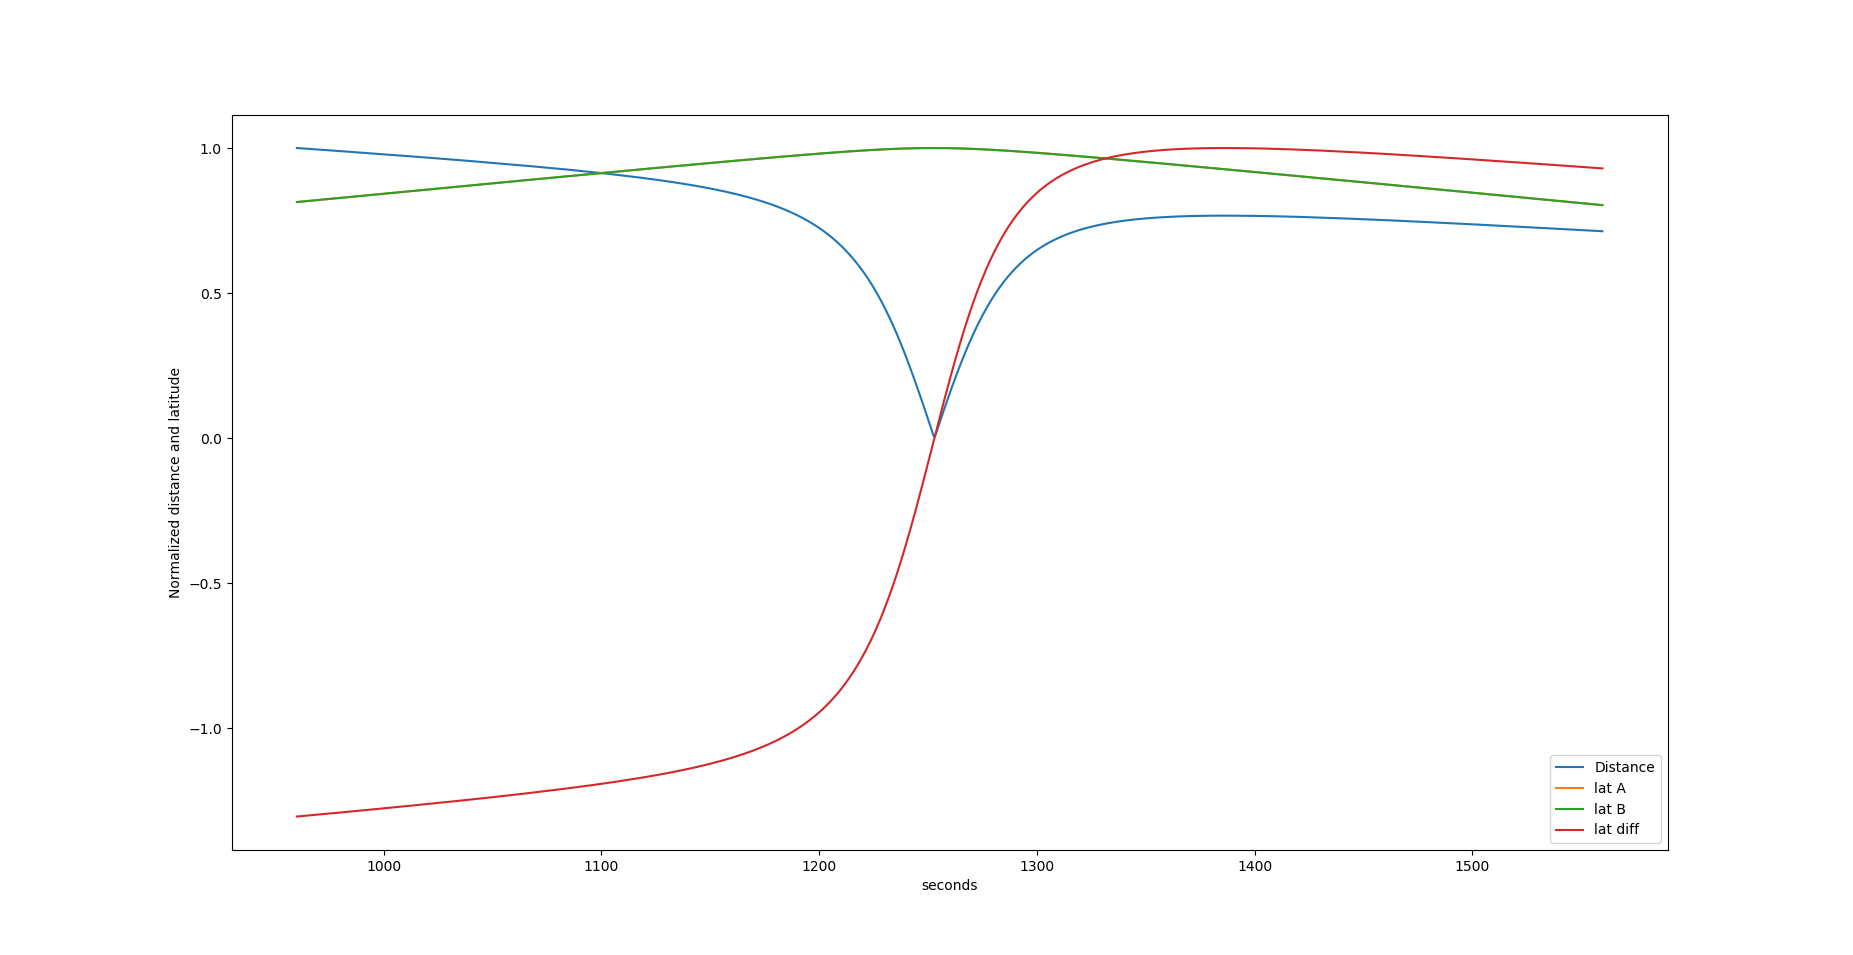
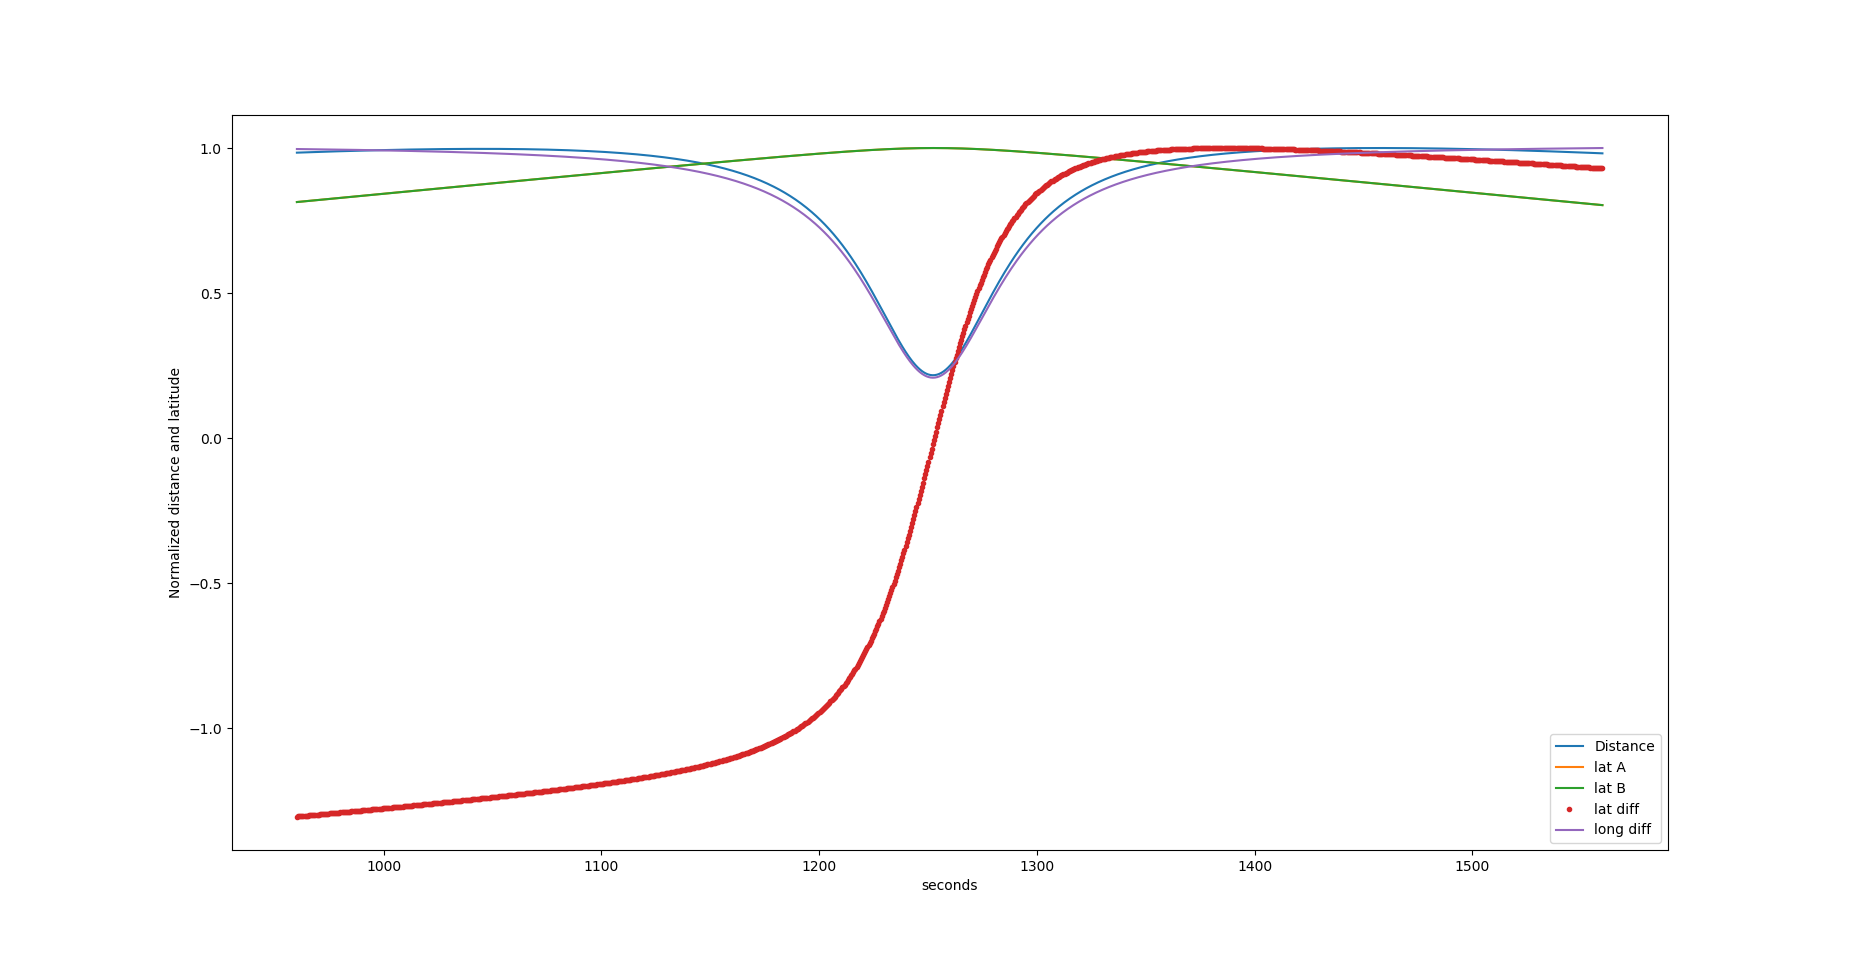
added longitude to example figure

diff --git a/SWARM/SWARMreader.py b/SWARM/SWARMreader.py
@@ -162,11 +162,13 @@ def idek():
     latA = cdfA["Latitude"][start+shift:stop+shift]
     latB = cdfB["Latitude"][start:stop]
     radA = cdfA["Radius"][start:stop]
+    longA = cdfA["Longitude"][start+shift:stop+shift]
+    longB = cdfB["Longitude"][start:stop]
     classy = SWARMprocess()
     seconds = classy.stamp_to_sec(cdfA["Timestamp"][start:stop])
 
     lat_diff = latB - latA
-    dist = classy.distance(latA, 0, radA, latB, 0, radA)
+    dist = classy.distance(latA, longA, radA, latB, longB, radA)
 
     latA1 = latA[:-1]
     latA2 = latA[1:]
@@ -183,6 +185,7 @@ def idek():
     secondish = seconds[:-1]
 
     deri_diff = deri_latB - deri_latA
+    longdiff = longB - longA
 
     plt.plot(secondish, deri_latA)
     plt.plot(secondish, deri_latB)
@@ -195,8 +198,10 @@ def idek():
     plt.plot(seconds, dist/np.max(dist))
     plt.plot(seconds, latA/np.max(latA))
     plt.plot(seconds, latB/np.max(latB))
-    plt.plot(seconds, lat_diff/np.max(lat_diff))
+    plt.plot(seconds, lat_diff/np.max(lat_diff), ".")
+    plt.plot(seconds, longdiff/np.max(longdiff))
     plt.xlabel("seconds")
     plt.ylabel("Normalized distance and latitude")
-    plt.legend(["Distance", "lat A", "lat B", "lat diff"])
+    plt.legend(["Distance", "lat A", "lat B", "lat diff", "long diff"])
     plt.show()
+idek()

diff --git a/SWARM/SWARMprocess.py b/SWARM/SWARMprocess.py
@@ -99,6 +99,7 @@ class SWARMprocess():
         Takes coordinates of 2 bodies and finds distance between them.
         Assumes spherical coordinates if sphere is set to True.
         If spherical, x = latitude, y = longitude, z = radius
+        Assumes x1, ..., z2 are arrays
         """
         if sphere == True: #distance in spherical coordinates
             if rad == False:
@@ -106,6 +107,7 @@ class SWARMprocess():
                 y1 = y1*np.pi/180
                 x2 = x2*np.pi/180
                 y2 = y2*np.pi/180
+
             a = z1**2 + z2**2
             b = np.sin(x1)*np.sin(x2)*np.cos(y1)*np.cos(y2)
             c = np.sin(x1)*np.sin(x2)*np.sin(y1)*np.sin(y2) + np.cos(x1)*np.cos(x2)
